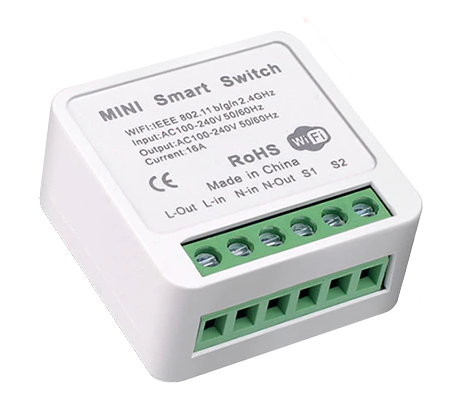
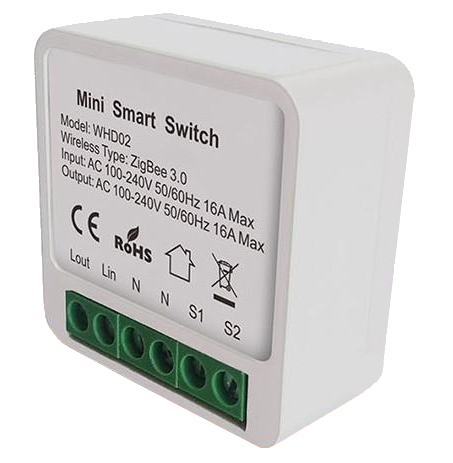
Several devices updates

diff --git a/core/php/AbeilleParser-Tuya.php b/core/php/AbeilleParser-Tuya.php
@@ -54,7 +54,7 @@
         $tFunc = substr($msg, 4, 2); // What for ?
         $tLen = substr($msg, 6, 2);
         $tData = substr($msg, 8, hexdec($tLen) * 2);
-        $m = "Dp=".$tDpId.", DpType=".$tDataType.", Func=".$tFunc.", DpLen=".$tLen;
+        $m = "Dp=".$tDpId.", Type=".$tDataType.", Func=".$tFunc.", Len=".$tLen.", ValueHex=".$tData;
 
         $dp = array(
             'id' => $tDpId,
@@ -80,7 +80,7 @@
     function tuyaDecodeDp($ep, $dp, $mapping, &$toMon) {
         $dpId = $dp['id'];
         if (!isset($mapping[$dpId])) {
-            $m = "  ".$dp['m'].": Unrecognized DP (data=".$dp['data'].")";
+            $m = "  ".$dp['m'].": Unrecognized DP !";
             parserLog("debug", $m, "8002");
             $toMon[] = $m;
             return false;
@@ -139,137 +139,11 @@
                 $mode = "?";
             $logMsg = "  ".$dp['m']." => Mode = ".$dp['data']."/".$mode;
             parserLog("debug", $logMsg, "8002");
-            $toMon[] = $logMsg; // For monitor
             $attributeN = array(
                 'name' => $ep.'-mode',
                 'value' => $mode,
             );
             break;
-        // Obsolete. Use generic function instead
-        // "02": { "function": "rcvValue", "info": "01-windowDetectionStatus" }
-        // case "rcvThermostat-WindowDetectionStatus": // Window detection status (Checked on TV02)
-        //     parserLog("debug", "  ".$dp['m']." => Window detection status = ".$dp['data'], "8002");
-        //     $attributeN = array(
-        //         'name' => $ep.'-windowDetectionStatus',
-        //         'value' => hexdec($dp['data']),
-        //     );
-        //     break;
-        // Obsolete. Use generic function instead
-        // "02": { "function": "rcvValueDiv", "info": "01-setPoint", "div": 10 }
-        // case "rcvThermostat-Setpoint": // Set point (Checked on TV02)
-        //     $setPoint = hexdec($dp['data']) / 10;
-        //     parserLog("debug", "  ".$dp['m']." => Set point = ".$setPoint." C", "8002");
-        //     $attributeN = array(
-        //         'name' => $ep.'-setpoint',
-        //         'value' => $setPoint,
-        //     );
-        //     break;
-        // Obsolete. Use generic function instead
-        // "02": { "function": "rcvValueMult", "info": "0402-01-0000", "mult": 10 }
-        // case "rcvThermostat-LocalTemp": // Received local temp (Checked on TV02)
-        //     $temp = hexdec($dp['data']) / 10;
-        //     $tempReport = $temp * 100; // Divided by 100 due to model
-        //     parserLog("debug", "  ".$dp['m']." => Temp = ".$temp." C", "8002");
-        //     $attributeN = array(
-        //         'name' => '0402-'.$ep.'-0000',
-        //         'value' => $tempReport,
-        //     );
-        //     break;
-        // Obsolete. Use generic function instead
-        // "02": { "function": "rcvValue", "info": "0001-01-0021" }
-        // case "rcvBattery-Percent": // Received battery percent (Checked on TV02)
-        //     $val = hexdec($dp['data']);
-        //     parserLog("debug", "  ".$dp['m']." => Battery-percent = ".$val." %", "8002");
-        //     $attributeN = array(
-        //         'name' => '0001-'.$ep.'-0021',
-        //         'value' => $val,
-        //     );
-        //     break;
-        // Obsolete. Use generic function instead
-        // "02": { "function": "rcvValue", "info": "0006-01-0000" }
-        // case "rcvOnline-Status": // WORK ONGOING !!! Received ON/OFF status (Checked on TV02)
-        //     $val = hexdec($dp['data']);
-        //     $st = ($val == 1) ? "ON" : "OFF";
-        //     parserLog("debug", "  ".$dp['m']." => On/Off=".$val."/".$st, "8002");
-        //     $attributeN = array(
-        //         'name' => '0006-'.$ep.'-0000',
-        //         'value' => $val,
-        //     );
-        //     break;
-        // Smart Air Box (TS0601, _TZE200_yvx5lh6k) $mapping exemple: array(
-        //     "02" => "rcvSmartAir-CO2",
-        //     "12" => "rcvSmartAir-Temperature",
-        //     "13" => "rcvSmartAir-Humidity",
-        //     "15" => "rcvSmartAir-VOC",
-        //     "16" => "rcvSmartAir-CH20",
-        // );
-        // Obsolete. Use generic function instead
-        // "02": { "function": "rcvValue", "info": "01-CO2_ppm" }
-        // case "rcvSmartAir-CO2": // CO2 (verified on Smart Air sensor)
-        //     $val = hexdec($dp['data']);
-        //     parserLog("debug", "  ".$dp['m']." => CO2=".$val." ppm", "8002");
-        //     $attributeN = array(
-        //         'name' => $ep.'-CO2_ppm',
-        //         'value' => $val,
-        //     );
-        //     break;
-        // Obsolete. Use generic function instead
-        // "02": { "function": "rcvValueMult", "info": "0402-01-0000", "mult": 10 }
-        // case "rcvSmartAir-Temperature": // Temp (verified on Smart Air sensor)
-        //     $val = hexdec($dp['data']);
-        //     $vReport = $val * 10; // Divided by 100 due to model
-        //     $val = $val / 10;
-        //     parserLog("debug", "  ".$dp['m']." => Temp=".$val." C", "8002");
-        //     $attributeN = array(
-        //         'name' => '0402-'.$ep.'-0000',
-        //         'value' => $vReport,
-        //     );
-        //     break;
-        // Obsolete. Use generic function instead
-        // "02": { "function": "rcvValueMult", "info": "0405-01-0000", "mult": 10 }
-        // case "rcvSmartAir-Humidity": // Humidity (verified on Smart Air sensor)
-        //     $val = hexdec($dp['data']);
-        //     $vReport = $val * 10; // Divided by 100 due to model
-        //     $val = $val / 10;
-        //     parserLog("debug", "  ".$dp['m']." => Humidity=".$val." %", "8002");
-        //     $attributeN = array(
-        //         'name' => '0405-'.$ep.'-0000',
-        //         'value' => $vReport,
-        //     );
-        //     break;
-        // Obsolete. Use generic function instead
-        // "02": { "function": "rcvValueDiv", "info": "01-VOC_ppm", "div": 10 }
-        // case "rcvSmartAir-VOC": // VOC (verified on Smart Air sensor)
-        //     $val = hexdec($dp['data']) / 10;
-        //     parserLog("debug", "  ".$dp['m']." => VOC=".$val." ppm", "8002");
-        //     $attributeN = array(
-        //         'name' => $ep.'-VOC_ppm',
-        //         'value' => $val,
-        //     );
-        //     break;
-        // Obsolete. Use generic function instead
-        // "02": { "function": "rcvValue", "info": "01-CH20_ppm" }
-        // case "rcvSmartAir-CH20": // Formaldéhyde µg/m3 (Méthanal / CH2O_ppm) (verified on Smart Air sensor)
-        //     $val = hexdec($dp['data']);
-        //     parserLog("debug", "  ".$dp['m']." => CH2O=".$val." ppm", "8002");
-        //     $attributeN = array(
-        //         'name' => $ep.'-CH20_ppm',
-        //         'value' => $val,
-        //     );
-        //     break;
-        // Obsolete. Replaced by generic function 'rcvValue0Is1'
-        // case "rcvSmokeAlarm": // Smoke status: value to bool
-        //     $val = hexdec($dp['data']);
-        //     if ($val == 0)
-        //         $val = 1;
-        //     else
-        //         $val = 0;
-        //     parserLog("debug", "  ".$dp['m']." => Smoke alarm=".$val, "8002");
-        //     $attributeN = array(
-        //         'name' => $ep.'-smokeAlarm',
-        //         'value' => $val,
-        //     );
-        //     break;
 
         // Solenoid valve Saswell SAS980SWT
         case "rcvValve-Status":
@@ -281,37 +155,13 @@
                 'value' => $val,
             );
             break;
-        // case "rcvValve-TimeLeft":
-        //     $val = hexdec($dp['data']);
-        //     parserLog("debug", "  ".$dp['m']." => Time left=".$val, "8002");
-        //     $attributeN = array(
-        //         'name' => $ep."-timeLeft",
-        //         'value' => $val,
-        //     );
-        //     break;
-        // case "rcvValve-LastOpenDuration":
-        //     $val = hexdec($dp['data']);
-        //     parserLog("debug", "  ".$dp['m']." => Last open duration=".$val, "8002");
-        //     $attributeN = array(
-        //         'name' => $ep."-lastOpenDuration",
-        //         'value' => $val,
-        //     );
-        //     break;
-        // case "rcvValve-MeasuredValue":
-        //     $val = hexdec($dp['data']);
-        //     parserLog("debug", "  ".$dp['m']." => Measured value=".$val, "8002");
-        //     $attributeN = array(
-        //         'name' => $ep."-measuredValue",
-        //         'value' => $val,
-        //     );
-        //     break;
 
         // Generic functions
 
         // Use exemple:  "02": { "function": "rcvValue", "info": "0008-01-0000" },
         case "rcvValue": // Value sent as Jeedom info
             $val = hexdec($dp['data']);
-            $logMsg = "  ".$dp['m']." => 'rcvValue' => Info=".$info.", Val=".$val;
+            $logMsg = "  ".$dp['m']." => 'rcvValue' => '".$info."'=".$val;
             $attributeN = array(
                 'name' => $info,
                 'value' => $val,
@@ -321,7 +171,7 @@
         case "rcvValueDiv": // Divided value sent as Jeedom info
             $val = hexdec($dp['data']);
             $val = $val / $div;
-            $logMsg = "  ".$dp['m']." => 'rcvValueDiv' => Info=".$info.", Div=".$div." => Val=".$val;
+            $logMsg = "  ".$dp['m']." => 'rcvValueDiv', Div=".$div." => '".$info."'=".$val;
             $attributeN = array(
                 'name' => $info,
                 'value' => $val,
@@ -331,7 +181,7 @@
         case "rcvValueMult": // Multiplied value sent as Jeedom info
             $val = hexdec($dp['data']);
             $val = $val * $mult;
-            $logMsg = "  ".$dp['m']." => 'rcvValueMult' => Info=".$info.", Mult=".$mult." => Val=".$val;
+            $logMsg = "  ".$dp['m']." => 'rcvValueMult', Mult=".$mult." => '".$info."'=".$val;
             $attributeN = array(
                 'name' => $info,
                 'value' => $val,
@@ -343,7 +193,7 @@
                 $val = 1;
             else
                 $val = 0;
-            $logMsg = "  ".$dp['m']." => 'rcvValue0Is1' => Info=".$info.", Val=".$val;
+            $logMsg = "  ".$dp['m']." => 'rcvValue0Is1' => '".$info."'=".$val;
             $attributeN = array(
                 'name' => $info,
                 'value' => $val,

diff --git a/core/class/Abeille.class.php b/core/class/Abeille.class.php
@@ -1396,21 +1396,20 @@ class Abeille extends eqLogic {
             }
 
             $eqModel = $eqLogic->getConfiguration('ab::eqModel', []);
-            $jsonId = ($eqModel != []) ? $eqModel['id'] : '';
-            $jsonLocation = $eqModel ? $eqModel['location'] : 'Abeille';
+            $jsonId = isset($eqModel['id']) ? $eqModel['id'] : '';
+            $jsonLocation = isset($eqModel['location']) ? $eqModel['location'] : 'Abeille';
 
             // Checking if model is defaultUnknown and there is now a real model for it (see #2211).
-            if ($jsonId == "defaultUnknown") {
-                $eqSig = $eqLogic->getConfiguration('ab::signature', []);
-                if ($eqSig != [] && $eqSig['modelId'] != "") {
-                    // Any user or official model ?
-                    $modelInfos = self::findModel($eqSig['modelId'], $eqSig['manufId']);
-                    if ($modelInfos !== false) {
-                        $jsonId = $modelInfos['jsonId'];
-                        $jsonLocation = $modelInfos['location']; // TODO: rename to jsonLocation
-                        $eqHName = $eqLogic->getHumanName();
-                        message::add("Abeille", $eqHName.": Nouveau modèle trouvé. Mise-à-jour en cours.", '');
-                    }
+            // Also rechecking if model is still the correct one (ex: TS011F => TS011F__TZ3000_2putqrmw)
+            $eqSig = $eqLogic->getConfiguration('ab::signature', []);
+            if ($eqSig != [] && $eqSig['modelId'] != "") {
+                // Any user or official model ?
+                $modelInfos = self::findModel($eqSig['modelId'], $eqSig['manufId']);
+                if ($modelInfos !== false) {
+                    $jsonId = $modelInfos['jsonId'];
+                    $jsonLocation = $modelInfos['location']; // TODO: rename to jsonLocation
+                    $eqHName = $eqLogic->getHumanName();
+                    message::add("Abeille", $eqHName.": Nouveau modèle trouvé. Mise-à-jour en cours.", '');
                 }
             }
 

diff --git a/core/class/AbeilleParser.class.php b/core/class/AbeilleParser.class.php
@@ -2993,8 +2993,8 @@
                             if (($a == '00F7') && ($t == "41")) {
                                 $dataLength = hexdec(substr($pl, 6, 2));
                                 $fcc0 = $this->decodeFF01(substr($pl, 8, $dataLength*2));
-                                $attributesReportN[] = array( "name" => '0006-01-0000', "value" => $fcc0["Etat SW 1 Binaire"]["valueConverted"] );
-                                $attributesReportN[] = array( "name" => '0402-01-0000', "value" => $fcc0["Device Temperature"]["valueConverted"] / 100 );
+                                // $attributesReportN[] = array( "name" => '0006-01-0000', "value" => $fcc0["Etat SW 1 Binaire"]["valueConverted"] );
+                                // $attributesReportN[] = array( "name" => '0402-01-0000', "value" => $fcc0["Device Temperature"]["valueConverted"] / 100 );
                                 if (isset($fcc0["Puissance"]))
                                     $attributesReportN[] = array( "name" => '000C-15-0055', "value" => $fcc0["Puissance"]["valueConverted"] );
                             }

diff --git a/core/php/AbeilleCmd-Tuya.php b/core/php/AbeilleCmd-Tuya.php
@@ -8,7 +8,7 @@
         $cmd = $abCmd['cmd'];
         foreach ($required as $req) {
             if (!isset($abCmd[$req])) {
-                cmdLog('debug', "    ERROR: Undefined '".$req."' for '".$cmd."'");
+                cmdLog('error', "    ERROR: Undefined '".$req."' for '".$cmd."'");
                 return false;
             }
         }
@@ -93,7 +93,7 @@
         // Send percent data in 0-1000 range with input in 0-100 range
         case "setPercent1000":
             if (!isset($abCmd['dpId'])) {
-                cmdLog('debug', "    ERROR: Undefined dpId for '".$cmd."'");
+                cmdLog('error', "    Undefined dpId for '".$cmd."'");
                 return false;
             }
             $dpId = $abCmd['dpId'];

diff --git a/core/php/AbeilleParser-Xiaomi.php b/core/php/AbeilleParser-Xiaomi.php
@@ -132,11 +132,11 @@
             $attrId = substr($pl, 2, 2).substr($pl, 0, 2);
             $attrType = substr($pl, 4, 2);
             $pl = substr($pl, 6);
-            parserLog('debug', "  ".$attrId."-".$attrType.": ".$pl);
+            parserLog('debug', "  Xiaomi ".$attrId."-".$attrType.": ".$pl);
 
             if (($attrId == "00F7") && ($attrType == "41")) {
                 $size = substr($pl, 0, 2); // Octet string size
-                xiaomiDecodeTags($net, $addr, substr($pl, 2));
+                xiaomiDecodeTags($net, $addr, substr($pl, 2), $attrReportN);
             }
 
             break; // Currently supporting only 1 attribut.

diff --git a/core/class/AbeilleCmdProcess.class.php b/core/class/AbeilleCmdProcess.class.php
@@ -4549,7 +4549,7 @@
                     cmdLog('debug', '    Using transId='.$transId.', dpId='.$dpId.', dpType='.$dpType.', dpData='.$dpData);
                     $len = sprintf("%02X", strlen($dpData) / 2);
                     if (($dpType == "02") && ($len > 4)) {
-                        cmdLog('debug', '    ERROR: Wrong dpData size (max=4B for type 02)');
+                        cmdLog('error', '    Wrong dpData size (max=4B for type 02)');
                         return;
                     }
                     $data2 = $fcf.$sqn.$cmdId."00".$transId.$dpId.$dpType."00".$len.$dpData;

diff --git a/docs/fr_FR/Changelog.rst b/docs/fr_FR/Changelog.rst
@@ -1,6 +1,15 @@
 ChangeLog
 =========
 
+- Reinitialisation: Remise en cause du modele utilisé chaque fois.
+- Interne: Améliorations support Tuya.
+- Tuya TV02: Mise-à-jour du modèle (2175).
+- Interne: Support cluster FCC0 Xiaomi générique.
+- Moes temp/humidity sensor: Mise-à-jour du modèle (2500).
+- Tuya mini smart switch: Correction image (2438).
+- Aqara Motion Sensor P1 RTCGQ14LM/MS-S02: Mise-à-jour modèle (2463).
+- Paulmann 50044: Ajout support préliminaire (2516).
+
 221209-BETA-4
 -------------
 
